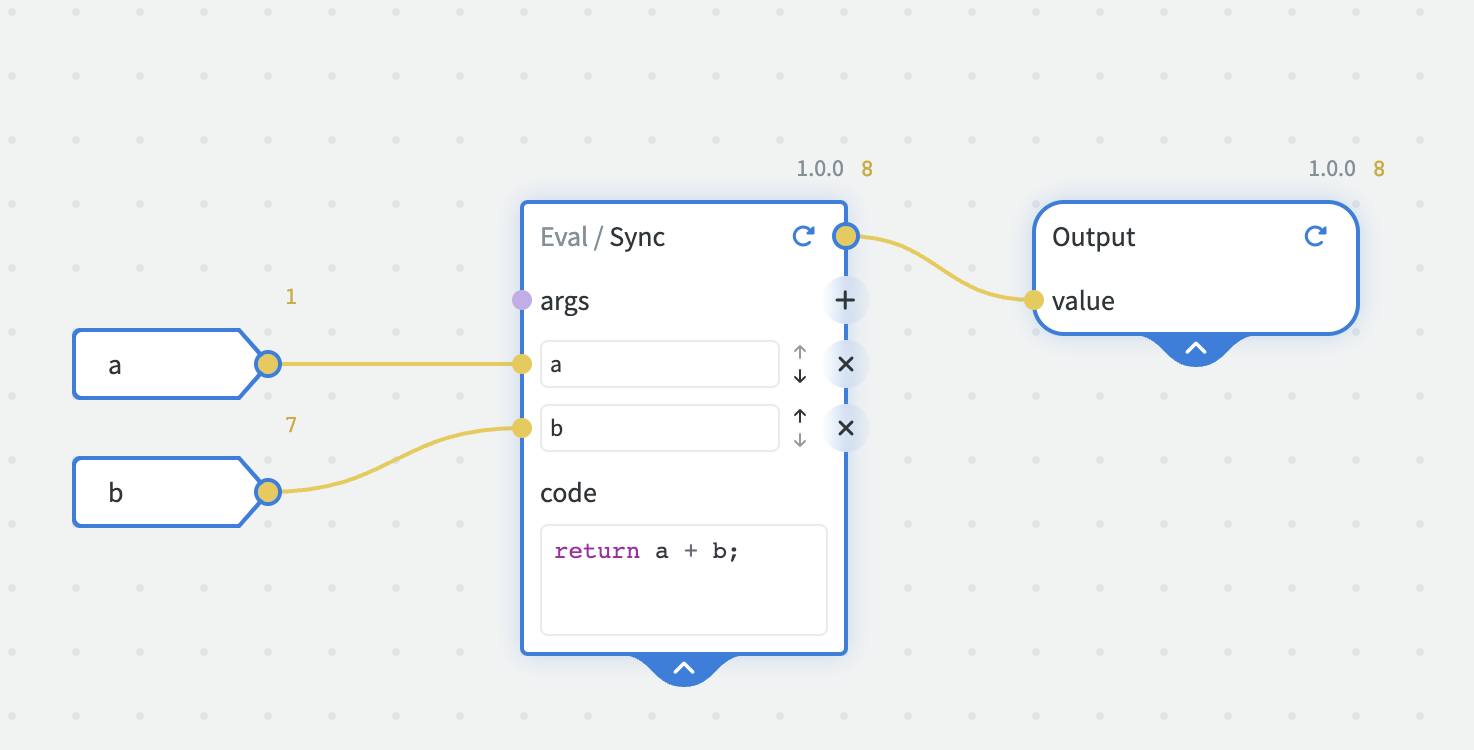
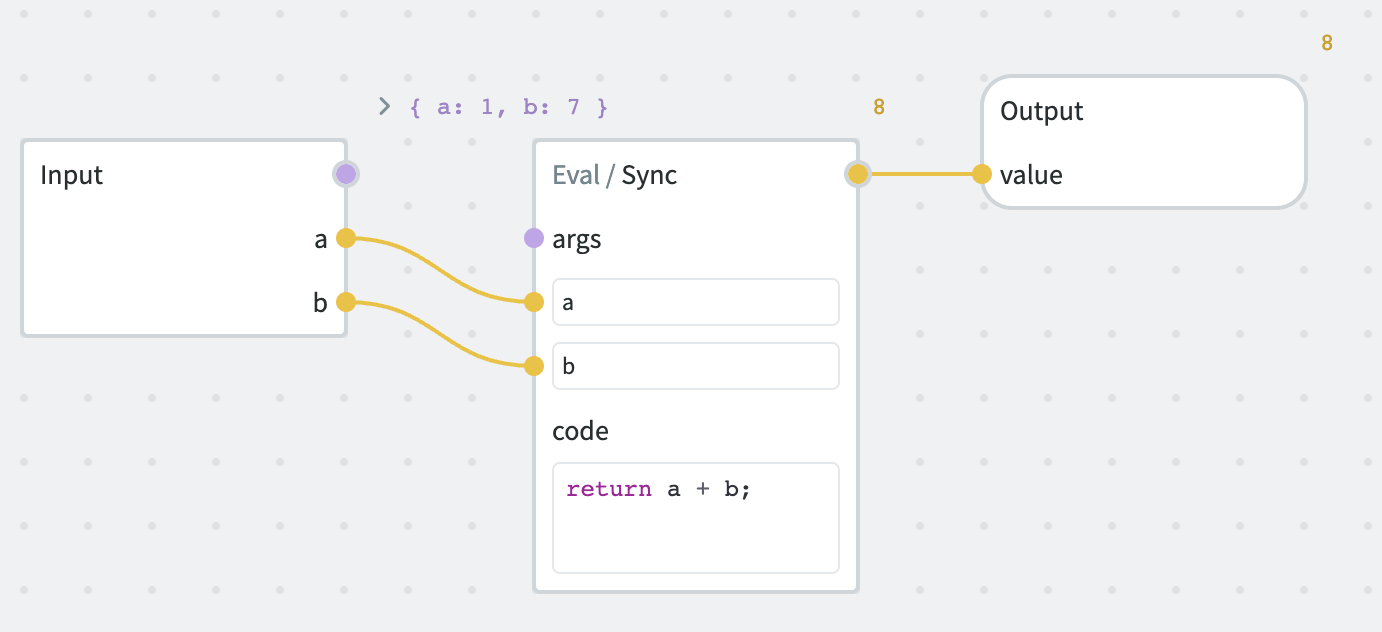
Nodes and Modules re-written

diff --git a/src/docs/nodes.md b/src/docs/nodes.md
@@ -2,11 +2,11 @@
 
 Nodes are the basic building blocks of a graph. A node on its own is comparable to a function and can be connected to each other using their _sockets_ to put together more complex logic.
 
-Each node performs some logic to produce an output. Most nodes also have inputs that determine the output (similar to _variables_). Consider a `Sum` node that adds two numbers together (two inputs, `1` + `7`), this would produce an output of `8`. These are represented by sockets on the Node itself, with inputs on the left and the output on the right.
+Each node performs some logic to produce an output. Most nodes also have inputs that determine the output (similar to _variables_). Consider a `Sum` node that adds two numbers together (`1` (a) + `7` (b)), this would produce an output of `8`. These are represented by sockets on the Node itself, with inputs on the left and the output on the right.
+
+In this example, our node is `Eval` which allows us to write some JavaScript which processes our inputs.
 
 ![Sum Graph](./images/nodes/nodes-output.png)
-
-The inputs can be identified by the shape (the triangle towards the right), and an output can be identified by the rounded corners. In this example, our node is `Eval` which allows us to write some JavaScript which processes our inputs.
 
 ## Types of Nodes
 
@@ -19,21 +19,28 @@ There are two types of Nodes that you should understand the difference of:
 
 When you are editing a graph, press spacebar or right click to open a menu that shows all the nodes that you can add to the canvas. You can use the search function or scroll within the menu to find the node you'd like to add.
 
-## Input nodes and datasets
+## Inputs
 
-An input node can be added from the top left of the canvas, by selecting the IN icon. The node type and value can be selected in this UI and then added to the graph as any other node. 
-
-The function is set up so that you always have the same inputs (like 'a' and 'b') for all your datasets, but you can change their values however you want. Also, when you make a new dataset, it just copies the values from the last one you were working with, until you decide to change them.
+In our example above the input node as two variables, 'a' and 'b', with a value of 1 and 7 respectively. These values are defined in the Input Settings menu found in the top left of the canvas:
 
 ![Input Settings](./images/nodes/input-settings.png)
 
-This functionality essentially provides the capability to maintain consistent input parameters, such as 'a' and 'b' in our example, while enabling their values to be different. This feature not only makes it easier to change your data, but it also lets you save these different setups. So, it's a breeze to switch between different sets of data.
+Multiple variables can be added to an input, each with a different type and value assigned. In our example, there are two variables of type: Number, and each with a separate value assigned.
+
+The settings for each variable can be reconfigured at any time via the action menu:  
+
+![Configure Input](./images/nodes/configure-input.png)
+
+### Datasets
+
+Datasets can also be added in the Input settings menu. This allows different values to be added to the input variables and changed between freely.  This functionality is set up so that you always have the same inputs (like 'a' and 'b') for all your datasets, but you can change their values however you want.
 
 **For example**, let's say you're trying to find out the sunset and sunrise times for specific locations, like Lisbon and London. You would use latitude and longitude as your inputs. You can save the latitude and longitude for Lisbon in one set, we'll call this 'Dataset 1'. Then, you can save the latitude and longitude for London in another set, which we'll call 'Dataset 2'.
 
 ![Input setting one](./images/nodes/datasets.gif)
 
 This way, you don't need to keep looking up and copying the coordinates for these places each time you want to check the sunset and sunrise times. You just switch between 'Dataset 1' for Lisbon and 'Dataset 2' for London, and the system uses the right coordinates automatically.
+
 
 
 

diff --git a/src/docs/modules.md b/src/docs/modules.md
@@ -17,4 +17,6 @@ When we expose this as a _module_, a different graph can consume it like this:
 
 ![Sum Graph](./images/modules/sum.png)
 
-Now the complexity of the module is hidden and we only need to deal with the input and output, which can then be plugged into our own set of values.
+Now the complexity of the module ('return a + b:') is hidden and we only need to deal with the input and output, which can then be plugged into our own set of values.
+
+This functionality can be used to add hugely complex functionality into your graph as a single node.
